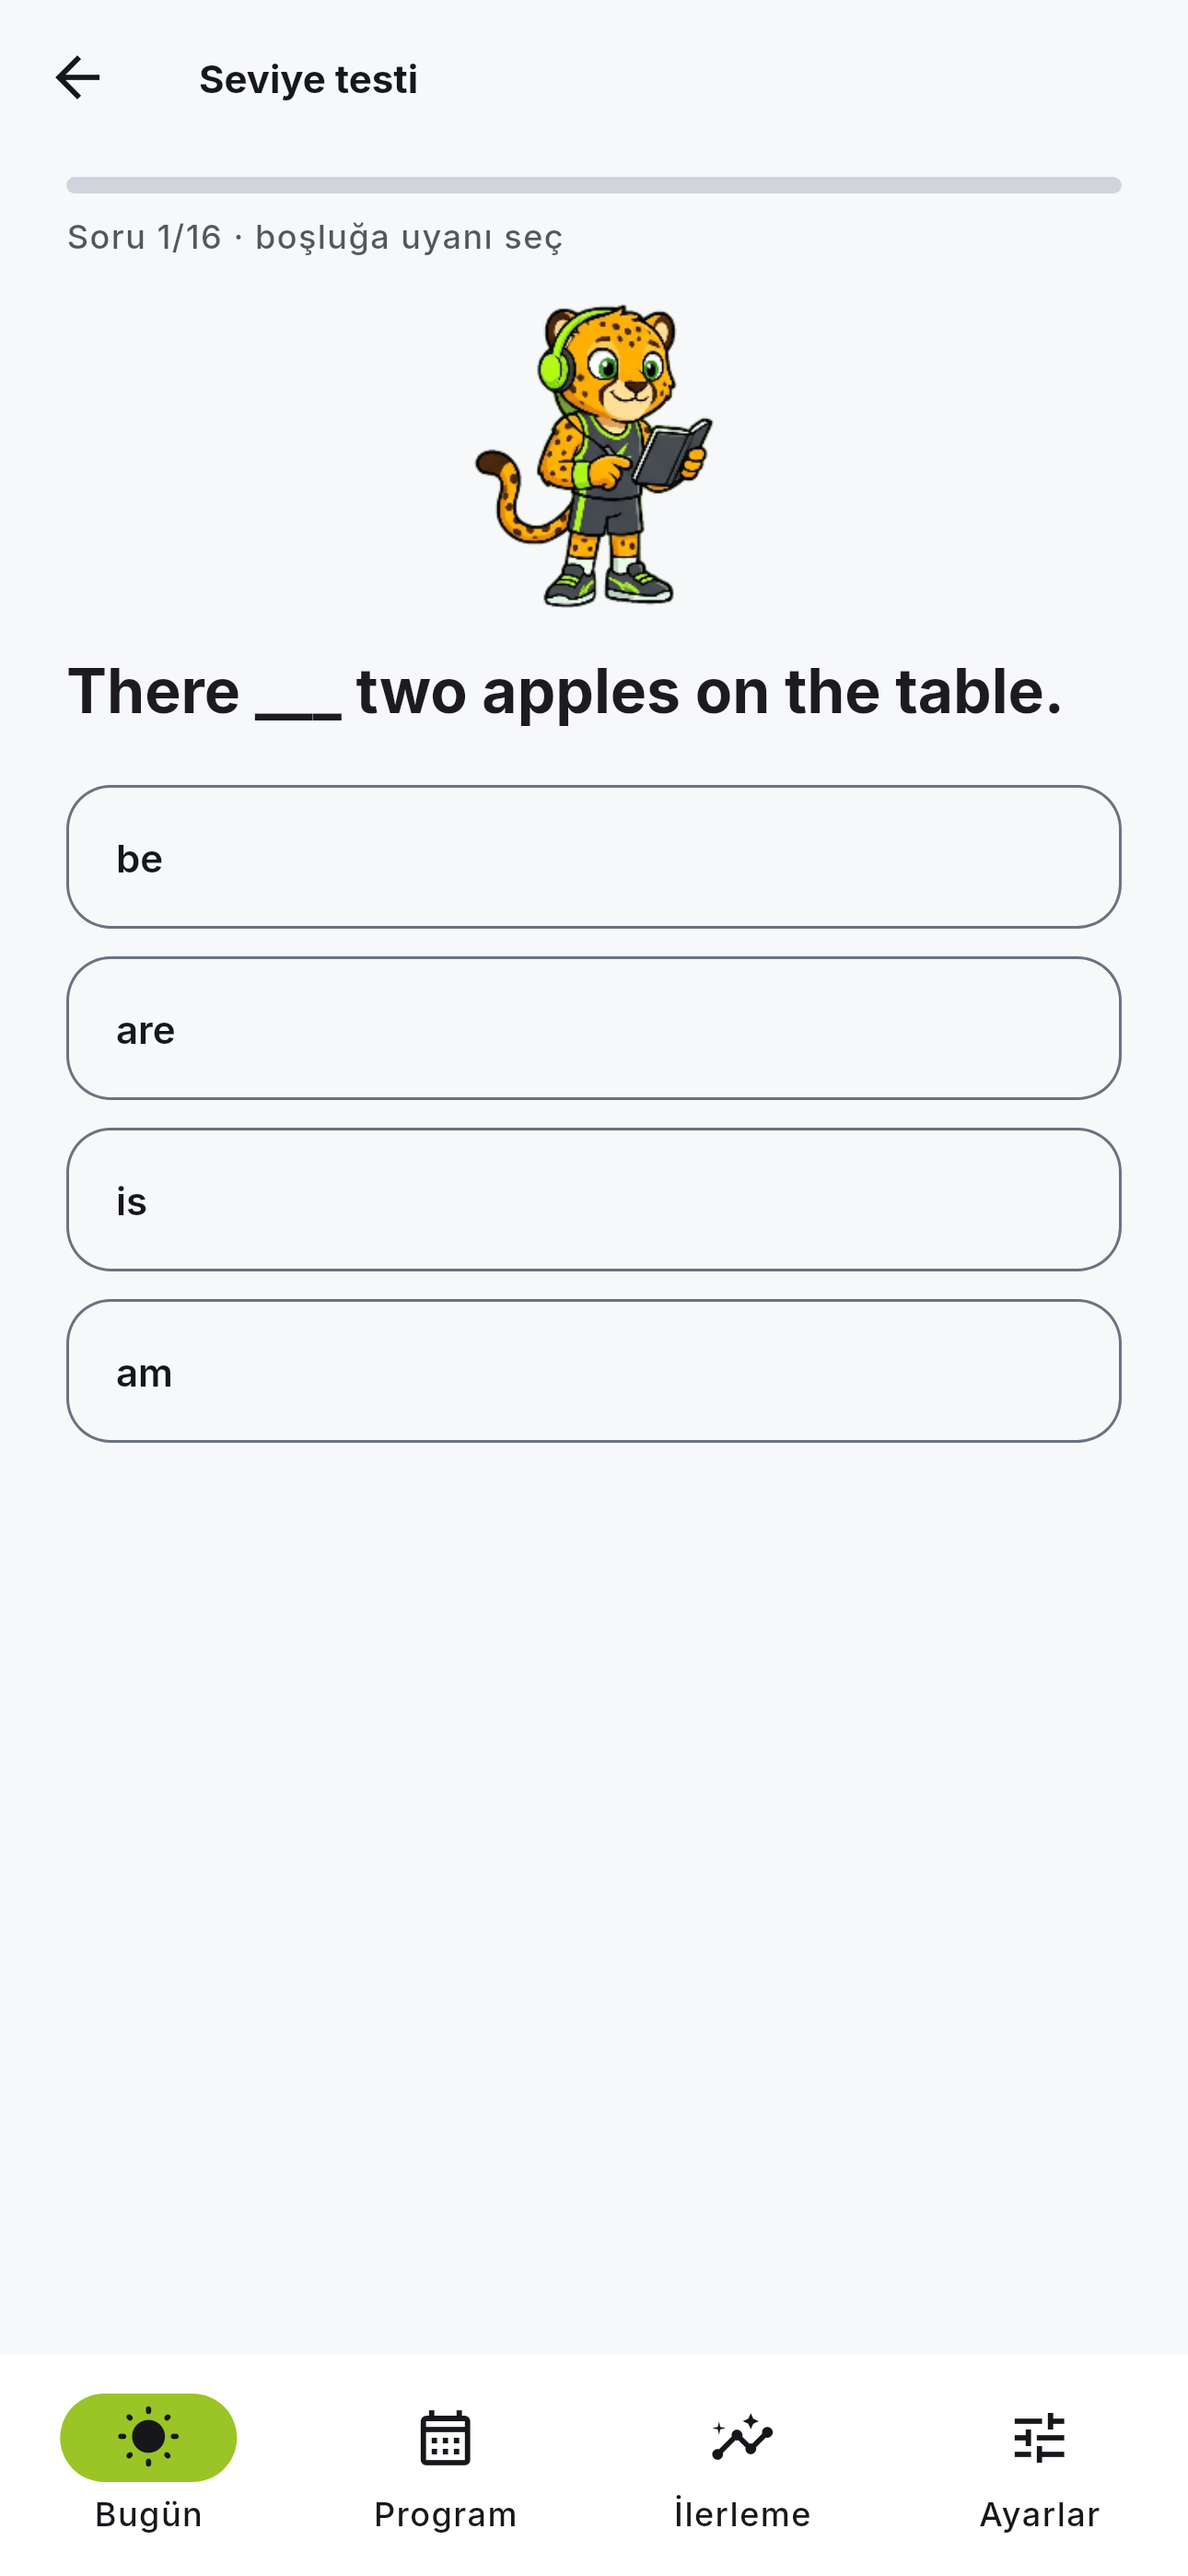
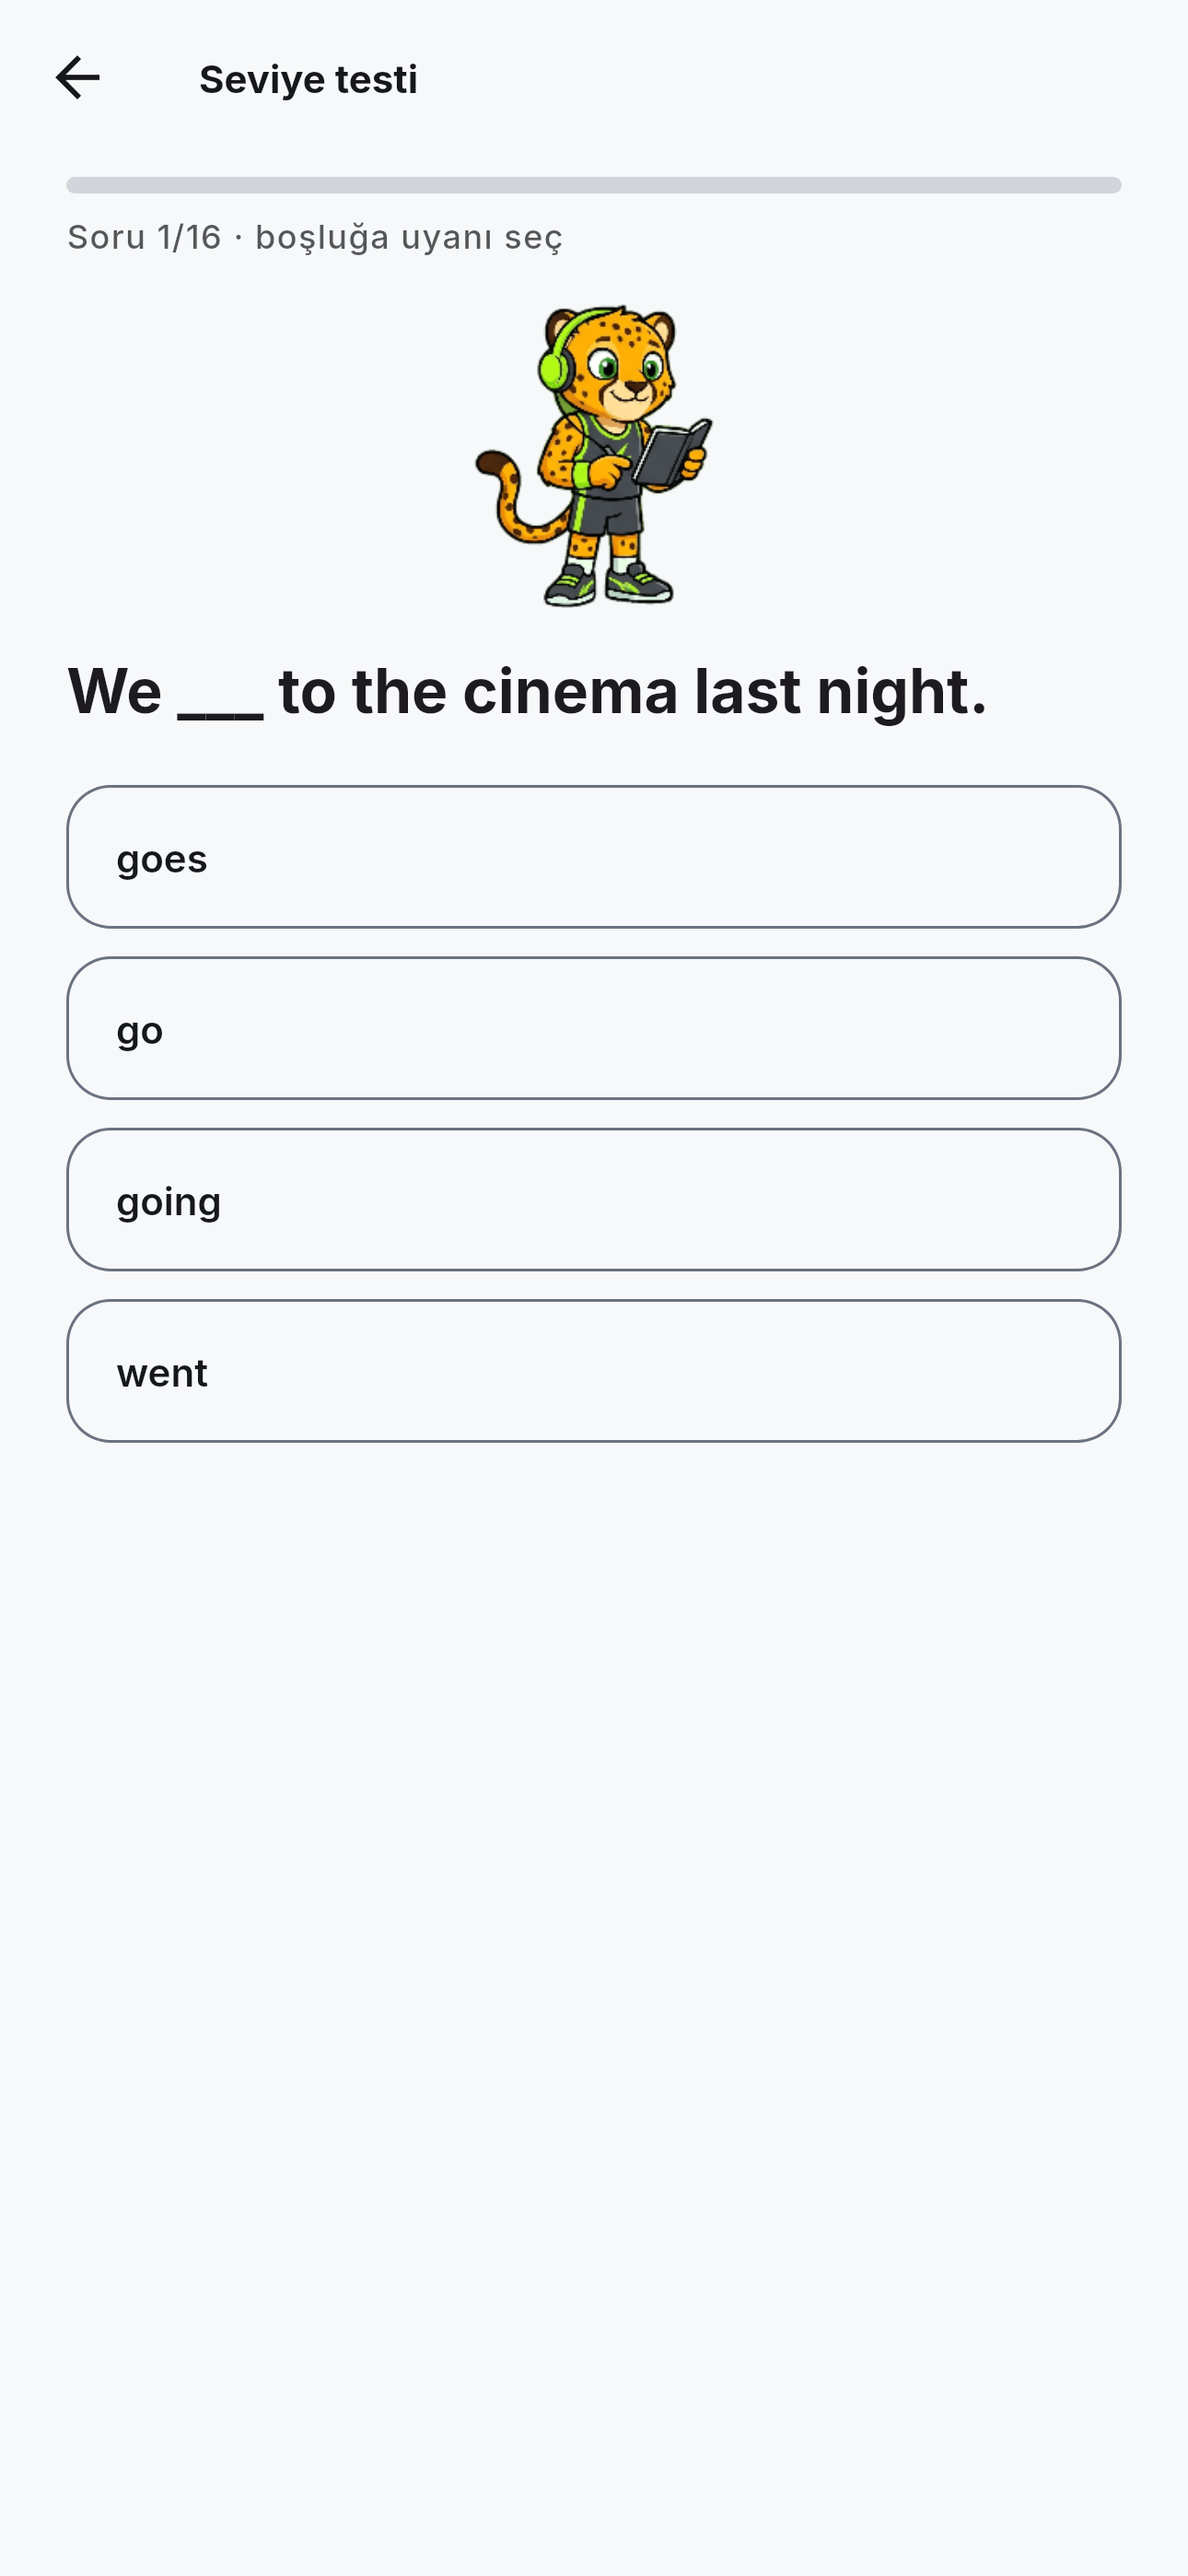
Seviye testi alt menünün üstünde tam ekran açılıyor
Test sekme gezgininde açıldığı için alt menü görünüyor ve test ortasında
sekme değiştirilebiliyordu. Kök gezgin kullanıldı; regresyon testi ve
mağaza görüntüsü güncellendi.

diff --git a/test/placement_test.dart b/test/placement_test.dart
@@ -112,4 +112,38 @@ void main() {
     await tester.pumpAndSettle();
     expect(find.byType(PlacementTestScreen), findsOneWidget);
   });
+
+  testWidgets('test sekme gezgininin değil kök gezginin üstünde açılır', (
+    tester,
+  ) async {
+    SharedPreferences.setMockInitialValues({});
+    final prefs = await SharedPreferences.getInstance();
+    final innerKey = GlobalKey<NavigatorState>();
+    await tester.pumpWidget(
+      ProviderScope(
+        overrides: [sharedPreferencesProvider.overrideWithValue(prefs)],
+        child: MaterialApp(
+          home: Scaffold(
+            // Sekmeli kabuk gibi: içerik iç gezginde, alt menü dışarıda.
+            body: Navigator(
+              key: innerKey,
+              onGenerateRoute: (_) => MaterialPageRoute(
+                builder: (context) => TextButton(
+                  onPressed: () => openPlacementTest(context),
+                  child: const Text('Testi çöz'),
+                ),
+              ),
+            ),
+            bottomNavigationBar: const SizedBox(height: 80),
+          ),
+        ),
+      ),
+    );
+    await tester.tap(find.text('Testi çöz'));
+    await tester.pumpAndSettle();
+
+    final opened = tester.element(find.byType(PlacementTestScreen));
+    expect(Navigator.of(opened), isNot(innerKey.currentState));
+    expect(innerKey.currentState!.canPop(), isFalse);
+  });
 }

diff --git a/lib/features/placement/placement_screen.dart b/lib/features/placement/placement_screen.dart
@@ -11,8 +11,10 @@ import '../../data/placement.dart';
 import '../../data/providers.dart';
 
 /// Kısa seviye testini açar; bitirilirse bulunan seviyeyi döndürür.
+/// Kök gezgin kullanılır: test alt menünün üstünde tam ekran açılır, test
+/// ortasında sekme değiştirilemez.
 Future<DifficultyLevel?> openPlacementTest(BuildContext context) {
-  return Navigator.of(context).push<DifficultyLevel>(
+  return Navigator.of(context, rootNavigator: true).push<DifficultyLevel>(
     MaterialPageRoute(builder: (_) => const PlacementTestScreen()),
   );
 }
